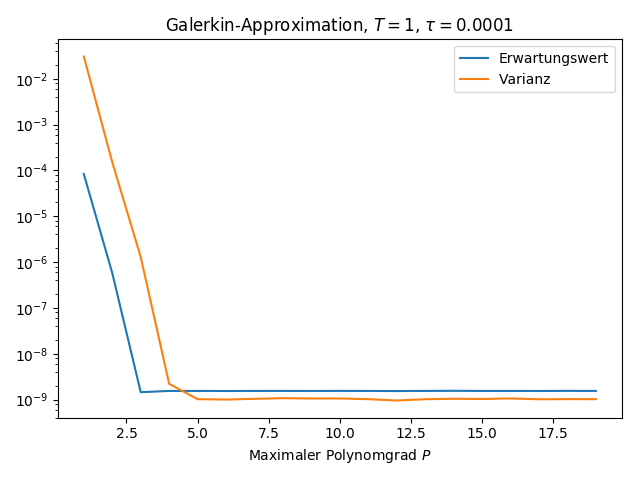
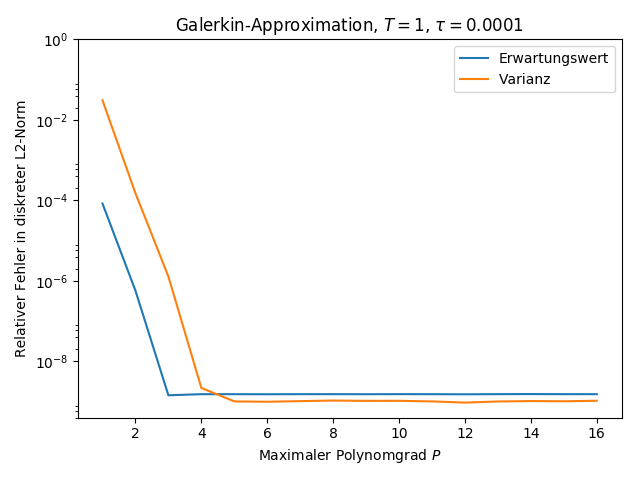
Improved explanation/visualization for evolution of galerkin errors over time

diff --git a/thesis/tex/Chapters/Chapter5.tex b/thesis/tex/Chapters/Chapter5.tex
@@ -216,18 +216,33 @@ Dabei ist $S_1D_1S_1^T=A$ und $r$ der Restterm der Gleichung mit
 Wir multiplizieren Gleichung (\ref{eqn:error_eq2}) nun von links mit $f^T$ und integrieren über $x$
 \begin{align*}
 \int_{-\pi}^\pi f^T(t,x)\dtt{f}(t,x)dx&=\sum_{i=0}^M d_i\int_{-\pi}^\pi f_i(t,x)\Laplace f_i(t,x)dx\\
-&\quad -\int_{-\pi}^\pi f^T(t,x)S_1^TB(x)S_1f(t,x)dx+\int_{-\pi}^\pi f^Trdx
+&\quad -\int_{-\pi}^\pi f^T(t,x)S_1^TB(x)S_1f(t,x)dx+\int_{-\pi}^\pi f^T(t,x)r(t,x)dx
 \end{align*}
 Ist $\alpha(y)>c>0$, so ist nach Satz \ref{th:galerkin_posdef} auch $d_i>c$. Weiterhin gilt aufgrund der periodischen Randbedingung mit dem Satz von Green
 \[\int_{-\pi}^\pi f_i(t,x)\Laplace f_i(t,x)dx=-\int_{-\pi}^\pi \norm{\nabla f_i(t,x)}^2dx+\underbrace{\oint f_i(t,x)(\nabla f_i\cdot n)d\sigma}_{=0}\le 0\]
+Ist für $x\in\Torus^d$ beliebig $\beta(x,y)>c>0$, so ist $B(x)$ positiv definit und es gilt
+\[-\int_{-\pi}^\pi f^T(t,x)S_1^TB(x)S_1f(t,x)dx\le 0\]
 Daher ergibt sich die Abschätzung
 \begin{equation}
-\int_{-\pi}^\pi f^T(t,x)\dtt{f}(t,x)dx\le \int_{-\pi}^\pi f^Tr\,dx\le \norm{f}_2\norm{r}_2 
+\int_{-\pi}^\pi f^T(t,x)\dtt{f}(t,x)dx\le \int_{-\pi}^\pi f^T(t,x)r(t,x)\,dx\le \norm{f}_2\norm{r}_2 
 \end{equation}
 \todo[inline]{Problem3: Ich finde keine gute Möglichkeit daraus eine Abschätzung für $\norm{f}_2$ zu erhalten. Mithilfe dieser hätte ich dann auch eine Abschätzung für $\norm{e}_2$ und somit für den Satz. Evtl. mit einer anderen Norm als der verwendeten $\norm{g}_2^2\coloneqq \int_{-\pi}^\pi g^2(x)dx$ um die Ableitung nach der Zeit zweiter Ordnung besser in den Griff zu bekommen?}
 \end{proof}
-Wir beobachten in den Abbildungen \ref{fig:galerkin_bystoptime_trial1_low} und \ref{fig:galerkin_bystoptime_trial1_high} das Verhalten für wachsende Stoppzeit $T$ anhand der einfachen \nameref{trial:1}. Die Parameter für die Quadratur sind dabei hoch genug gewählt um als relevante Fehlerquellen ausgeschlossen werden zu können. 
-\todo[inline]{Beobachtungen?!}
+Zur Beobachtung, wie der maximale Polynomgrad $P$ und Stoppzeit $T$ zusammenhängen, betrachten wir die Konvergenz des Erwartungswerts und der Varianz von \nameref{trial:1}. In diesem eindimensionalen Problem gilt $M=P$ und wir können den exakten Erwartungswert und Varianz als Referenz zur Berechnung deren Approximationsfehler verwenden.\\
+In Abbildung \ref{fig:galerkin_bydegree_trial1} erkennen wir, dass für $T=1$ die Wahl $P\ge 5$ ausreicht für die bestmögliche Approximation des Erwartungswerts und der Varianz. Für $T=10$ benötigen wir hingegen $P\ge 14$. In diesem Fall erkennen wir auch eine exponentielle Konvergenz des Fehlers der Varianz bezüglich des Polynomgrads $P=M$.
+\begin{figure}[!htb]
+\minipage{0.5\textwidth}
+  \includegraphics[width=\linewidth]{Figures/galerkin_bydegree_trial1_t1.png}
+\endminipage
+\minipage{0.5\textwidth}
+  \includegraphics[width=\linewidth]{Figures/galerkin_bydegree_trial1_t10.png}
+\endminipage
+  \caption{Approximation des Erwartungswert und der Varianz von \nameref{trial:1} zu fixen Zeitpunkten durch Galerkin-Ansatz mit $\tau=0.0001$ und verschiedenen Polynomgraden.}
+  \label{fig:galerkin_bydegree_trial1}
+\end{figure}
+\newline
+Anschließend beobachten wir in Abbildung \ref{fig:galerkin_bystoptime_trial1} das Verhalten für wachsende Stoppzeit $T$, ebenfalls anhand der einfachen \nameref{trial:1}. Die Parameter für die Quadratur sind dabei hoch genug gewählt um als relevante Fehlerquellen ausgeschlossen werden zu können. Die Wahl $P=25$ schließt, begründet durch die Beobachtungen aus Abbildung \ref{fig:galerkin_bydegree_trial1}, den Einfluss des Polynomgrads als Fehlerquelle für die Zeitspanne $T\le 10$ aus.\\
+Wir erkennen, dass im linken Fall der niedrige Polynomgrad mit $P=5$ dafür sorgt, dass die Approximationen ab $T=1$ zunehmend schlechter werden. Im rechten Fall mit $P=25$ ist keine Verschlechterung der Fehler im Erwartungswert und Varianz zu beobachten. Der Fourier-Fehler im Sinne von Satz \ref{th:adapted22} hingegen zeigt einen gewissen Aufwärtstrend bezüglich der Zeit $T$.
 \begin{figure}[!htb]
 \minipage{0.55\textwidth}
   \includegraphics[width=\linewidth]{Figures/galerkin_bystoptime_trial1_fixeddegree5.png}
@@ -235,23 +250,18 @@ Wir beobachten in den Abbildungen \ref{fig:galerkin_bystoptime_trial1_low} und \
 \minipage{0.55\textwidth}
   \includegraphics[width=\linewidth]{Figures/galerkin_bystoptime_trial1_fixeddegree25.png}
 \endminipage
-  \label{fig:galerkin_bystoptime_trial1}
   \caption{Verschiedene Fehler von \nameref{trial:1} mit fixem Polynomgrad und hinreichend guter Quadraturformel.}
+  \label{fig:galerkin_bystoptime_trial1}
 \end{figure}
-\todo[inline]{Problem4: Es ist nicht ganz klar, was eigentlich rauskommen soll. Durch fehlende Referenzlösungen für die Varianz an vielen verschiedenen Zeitpunkten ist es schwierig, beliebige Beispiele zu beobachten.}
-Schlussendlich sehen wir in den Abbildungen \ref{fig:galerkin_bydegree_trial1_t1} und \ref{fig:galerkin_bydegree_trial1_t5} das Verhalten des Fehlers in Abhängigkeit von der Anzahl an Polynomen $P=M+1$. Zum Zeitpunkt $T=1$ wird für $P>5$ der Fehler minimal, für $T=5$ passiert die bestmögliche Approximation allerdings erst für $P>8$. Diese benötigte Grenze wächst mit größerem $T$. 
+\newline
+In Abbildung \ref{fig:galerkin_bystoptime_trial3}, welche die Fehler der eindimensionalen \nameref{trial:3} mit $Y\sim\mathcal{U}(10,50)$, beobachten wir zusätzlich auch einen leichten Aufwärtstrend der Fehler des Erwartungswerts und der Varianz bezüglich der Zeit $T$.
 \begin{figure}[!htb]
 \centering
-\includegraphics[width=0.5\linewidth]{Figures/galerkin_bydegree_trial1_t1.png}
-\caption{Approximation des Erwartungswert und der Varianz von \nameref{trial:1} zu fixem Zeitpunkt $T=1$ durch Galerkin-Ansatz mit $\tau=0.0001$ und verschiedenen Polynomgraden.}
-\label{fig:galerkin_bydegree_trial1_t1}
+\includegraphics[width=0.75\linewidth]{Figures/galerkin_bystoptime_trial3_fixeddegree25_big.png}
+\caption{Verschiedene Fehler von \nameref{trial:3} mit fixem Polynomgrad und hinreichend guter Quadraturformel.}
+\label{fig:galerkin_bystoptime_trial3}
 \end{figure}
+\todo[inline]{Problem4: Es ist nicht ganz klar, was eigentlich rauskommen soll. Durch fehlende Referenzlösungen für die Varianz an vielen verschiedenen Zeitpunkten ist es schwierig, beliebige Beispiele (insbesondere mehrdimensionale) zu beobachten.}
 
-\begin{figure}[!htb]
-\centering
-\includegraphics[width=0.5\linewidth]{Figures/galerkin_bydegree_trial1_t5.png}
-\caption{Approximation des Erwartungswert und der Varianz von \nameref{trial:1} zu fixem Zeitpunkt $T=5$ durch Galerkin-Ansatz mit $\tau=0.0001$ und verschiedenen Polynomgraden.}
-\label{fig:galerkin_bydegree_trial1_t5}
-\end{figure}
 \subsection{Vergleich Galerkin und Collocation}
 \todo[inline]{Vergleiche mehrdim, unstetig, nicht diffbar mit Collocation}

diff --git a/demo/stochastic_trials.py b/demo/stochastic_trials.py
@@ -189,6 +189,8 @@ trial_discont = StochasticTrial([distributions.make_uniform(-1, 1)],
                                 name="TrialDiscont") \
     .add_parameters("beta", lambda xs, ys: 100 * np.cos(ys[0]) ** 2 + 1 if ys[0] > 0. else 1.5 + np.sin(3 * ys[0]),
                     "alpha", lambda ys: 2 + ys[0] if ys[0] > 0. else 0.5,
+                    "grid_size", 128,
+                    "stop_time", 0.5,
                     "expectancy_data", "../data/qmc_exp, 100000, TrialDiscont, 0.5, 128.npy",
                     "variance_data", "../data/qmc_var, 100000, TrialDiscont, 0.5, 128.npy")
 
@@ -198,6 +200,8 @@ trial_discont_simple = StochasticTrial([distributions.make_uniform(-1, 1)],
                                        name="TrialDiscontSimple") \
     .add_parameters("beta", lambda xs, ys: 2 + np.sin(xs[0] + ys[0]) if ys[0] > 0. else 2 + np.cos(xs[0] + ys[0]),
                     "alpha", lambda ys: 2. if ys[0] > 0. else 1.,
+                    "grid_size", 128,
+                    "stop_time", 0.5,
                     "expectancy_data", "../data/qmc_exp, 100000, TrialDiscontSimple, 0.5, 128.npy",
                     "variance_data", "../data/qmc_var, 100000, TrialDiscontSimple, 0.5, 128.npy")
 
@@ -207,6 +211,8 @@ trial_discont_simple_gauss = StochasticTrial([distributions.gaussian],
                                              name="TrialDiscontSimpleGauss") \
     .add_parameters("beta", lambda xs, ys: 2 + np.sin(xs[0] + ys[0]) if ys[0] > 0. else 2 + np.cos(xs[0] + ys[0]),
                     "alpha", lambda ys: 2. if ys[0] > 0. else 1.,
+                    "grid_size", 128,
+                    "stop_time", 0.5,
                     "expectancy_data", "../data/qmc_exp, 100000, TrialDiscontSimpleGauss, 0.5, 128.npy",
                     "variance_data", "../data/qmc_var, 100000, TrialDiscontSimpleGauss, 0.5, 128.npy")
 
@@ -216,6 +222,8 @@ trial_discont_super_simple = StochasticTrial([distributions.make_uniform(-1, 1)]
                                              name="TrialDiscontSuperSimple") \
     .add_parameters("beta", lambda xs, ys: 2 + np.sin(xs[0] + ys[0]),
                     "alpha", lambda ys: 2. if ys[0] > 0. else 1.,
+                    "grid_size", 128,
+                    "stop_time", 0.5,
                     "expectancy_data", "../data/qmc_exp, 100000, TrialDiscontSuperSimple, 0.5, 128.npy",
                     "variance_data", "../data/qmc_var, 100000, TrialDiscontSuperSimple, 0.5, 128.npy")
 
@@ -225,6 +233,8 @@ trial_discont_super_extreme_simple = StochasticTrial([distributions.make_uniform
                                                      name="TrialDiscontSuperExtremeSimple") \
     .add_parameters("beta", lambda xs, ys: 2 + np.sin(xs[0]),
                     "alpha", lambda ys: 2. if ys[0] > 0. else 1.,
+                    "grid_size", 128,
+                    "stop_time", 0.5,
                     "expectancy_data", "../data/qmc_exp, 100000, TrialDiscontSuperExtremeSimple, 0.5, 128.npy",
                     "variance_data", "../data/qmc_var, 100000, TrialDiscontSuperExtremeSimple, 0.5, 128.npy")
 
@@ -234,6 +244,8 @@ trial_discont_triple = StochasticTrial([distributions.make_uniform(-1, 1)],
                                        name="TrialDiscontTriple") \
     .add_parameters("beta", lambda xs, ys: 2 + np.sin(xs[0] + ys[0]),
                     "alpha", lambda ys: 3. if ys[0] > 0.5 else (2. if ys[0] > 0. else 1.),
+                    "grid_size", 128,
+                    "stop_time", 0.5,
                     "expectancy_data", "../data/qmc_exp, 100000, TrialDiscontTriple, 0.5, 128.npy",
                     "variance_data", "../data/qmc_var, 100000, TrialDiscontTriple, 0.5, 128.npy")
 

diff --git a/demo/galerkin_by_degree.py b/demo/galerkin_by_degree.py
@@ -7,13 +7,13 @@ from stochastic_equations.galerkin.galerkin import galerkin_approximation
 
 
 domain = [(-np.pi, np.pi)]
-trial = st.trial_1
+trial = st.trial_discont_simple_gauss
 grid_size = trial.get_parameter("grid_size", 128)
 start_time = 0.
-stop_time = trial.get_parameter("stop_time", 10)
+stop_time = trial.get_parameter("stop_time", 1)
 delta_time = 0.0001
 steps = int(stop_time / delta_time)
-max_poly_degrees = list(range(1, 17))
+max_poly_degrees = list(range(1, 15))  # do not put a number >=7 here for 4 dimensional problems as this kills my laptop
 wave_weight = 1.
 
 if len(trial.variable_distributions) == 1:
